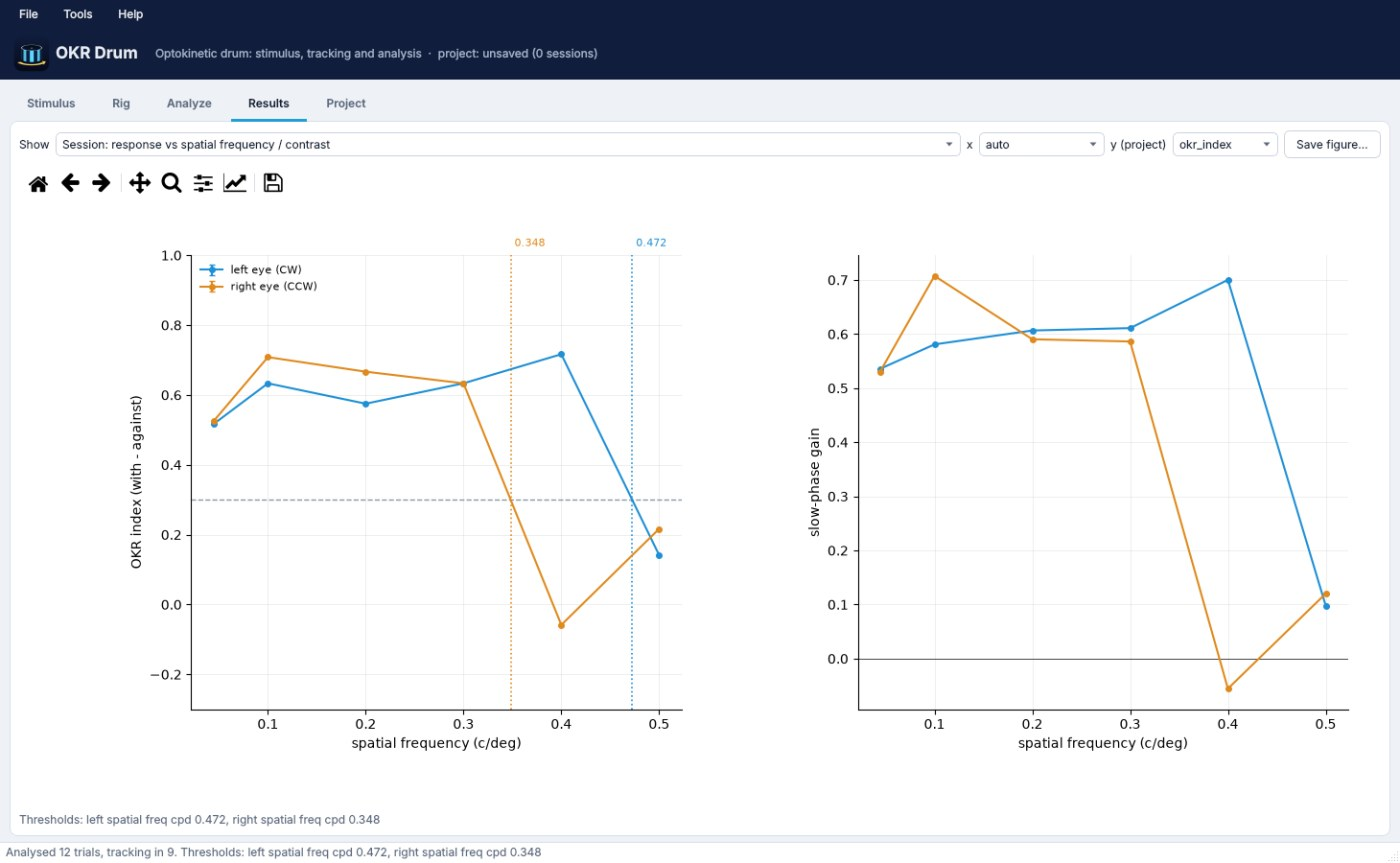
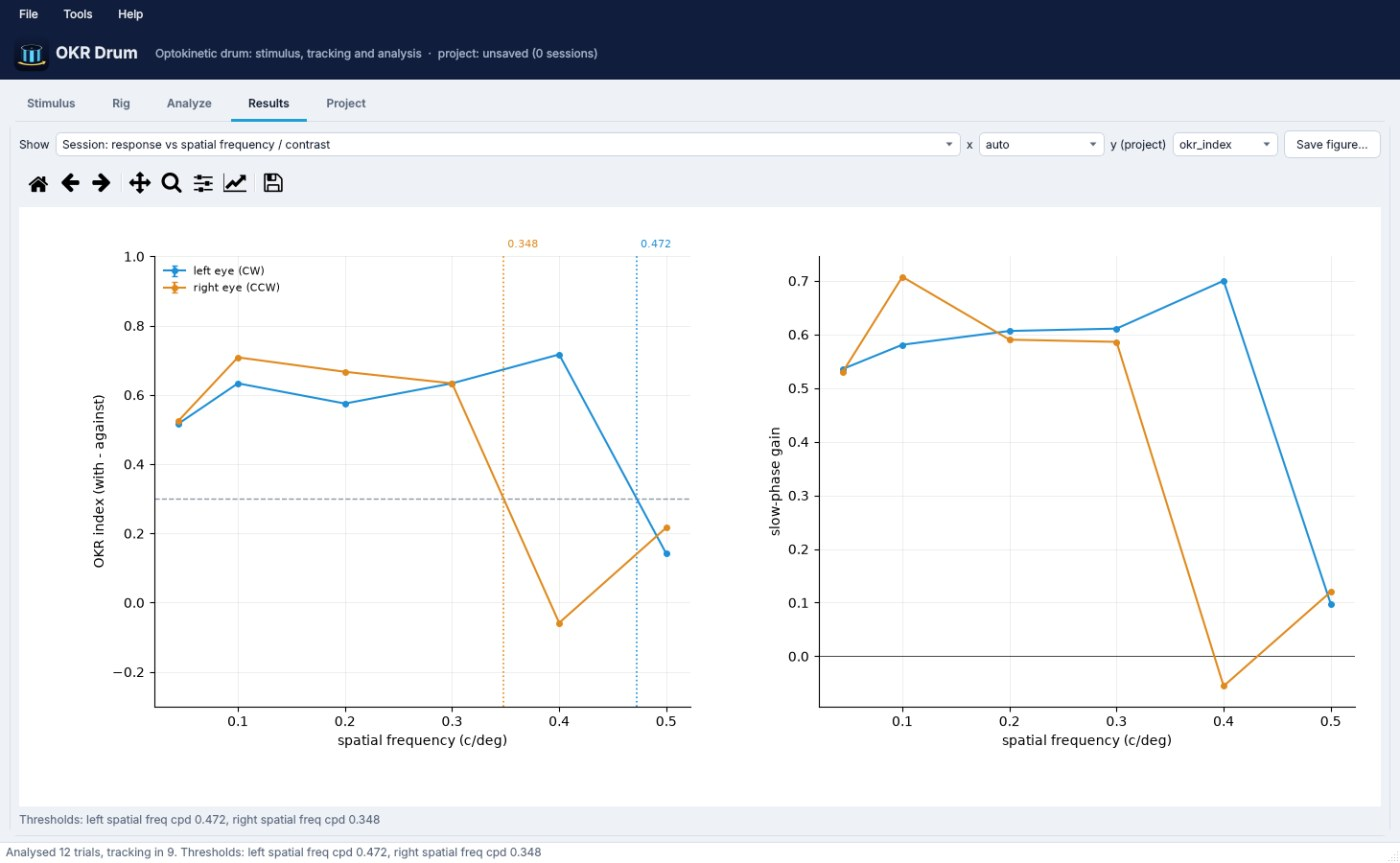
v3.0.0

diff --git a/okrdrum/gui/stimulus_tab.py b/okrdrum/gui/stimulus_tab.py
@@ -126,14 +126,16 @@ class StimulusTab(QtWidgets.QWidget):
         left.addStretch(1)
 
         g = QtWidgets.QGroupBox("Sync to the Raspberry Pi")
-        h = QtWidgets.QHBoxLayout(g)
+        h = QtWidgets.QGridLayout(g)
         self.port = QtWidgets.QComboBox()
-        h.addWidget(self.port, 1)
-        h.addWidget(theme.button("Refresh", slot=self._ports))
-        h.addWidget(theme.button("Send test marker", slot=self._test_marker,
-                                 tip="Sends 'T0 test' and 'E0' - the Pi recorder shows them live"))
+        self.port.setMinimumContentsLength(12)
+        self.port.setSizeAdjustPolicy(QtWidgets.QComboBox.AdjustToMinimumContentsLengthWithIcon)
+        h.addWidget(self.port, 0, 0, 1, 3)
+        h.addWidget(theme.button("Refresh ports", slot=self._ports), 1, 0)
+        h.addWidget(theme.button("Test marker", slot=self._test_marker,
+                                 tip="Sends 'T0 test' and 'E0' - the Pi recorder shows them live"), 1, 1)
         h.addWidget(theme.button("Send session info", slot=self._send_info,
-                                 tip="Animal, session, treatment and date to the Pi recorder (also sent at every run start)"))
+                                 tip="Animal, session, treatment and date to the Pi recorder (also sent at every run start)"), 1, 2)
         right.addWidget(g)
         self._ports()
 
@@ -141,7 +143,7 @@ class StimulusTab(QtWidgets.QWidget):
         v = QtWidgets.QVBoxLayout(g)
         h = QtWidgets.QHBoxLayout()
         self.start_btn = theme.button("Start run", "primary", self.start)
-        self.next_btn = theme.button("Start trial  (SPACE)", slot=lambda: self.runner.key("space"))
+        self.next_btn = theme.button("Trial  (SPACE)", slot=lambda: self.runner.key("space"))
         self.stop_btn = theme.button("Stop  (ESC)", "danger", lambda: self.runner.key("escape"))
         for b in (self.start_btn, self.next_btn, self.stop_btn):
             h.addWidget(b)
@@ -156,9 +158,17 @@ class StimulusTab(QtWidgets.QWidget):
         self.state_lbl.setProperty("h2", True)
         self.state_lbl.setWordWrap(True)
         v.addWidget(self.state_lbl)
+        self.display_lbl = QtWidgets.QLabel("")       # live: is the stimulus window really drawing?
+        self.display_lbl.setWordWrap(True)
+        v.addWidget(self.display_lbl)
+        self._disp_timer = QtCore.QTimer(self)
+        self._disp_timer.timeout.connect(self._update_display)
         self.table = QtWidgets.QTableWidget(0, 7)
-        self.table.setHorizontalHeaderLabels(["#", "c/deg", "contrast", "deg/s", "dir", "dropped", "answer"])
+        self.table.setHorizontalHeaderLabels(["#", "c/deg", "contr.", "deg/s", "dir", "drops", "Y/N"])
         self.table.verticalHeader().setVisible(False)
+        hh = self.table.horizontalHeader()
+        hh.setSectionResizeMode(QtWidgets.QHeaderView.Stretch)      # columns share the width: no side scrolling
+        hh.setMinimumSectionSize(36)
         self.table.setEditTriggers(QtWidgets.QAbstractItemView.NoEditTriggers)
         v.addWidget(self.table, 1)
         self.result_lbl = QtWidgets.QLabel("")
@@ -339,6 +349,20 @@ class StimulusTab(QtWidgets.QWidget):
             return
         self._set_running(True)
 
+    def _update_display(self):
+        r = getattr(self, "runner", None)
+        if r is None or not r.running:
+            return
+        fps, name = r.display_rate()
+        if fps < 1:
+            self.display_lbl.setText("<span style='color:#c0392b'><b>Stimulus window NOT drawing</b></span> - "
+                                     "covered, minimised or on a missing screen? The run goes on the clock, "
+                                     "but nothing is shown and no frames are counted.")
+        else:
+            col = "#2e8b57" if fps > 0.8 * r.refresh else "#d68910"
+            self.display_lbl.setText("<span style='color:%s'>Stimulus window drawing at %.0f Hz</span> "
+                                     "(%s)" % (col, fps, name))
+
     def _set_running(self, on):
         stair = self.mode.currentIndex() == 1
         app = QtWidgets.QApplication.instance()
@@ -347,8 +371,11 @@ class StimulusTab(QtWidgets.QWidget):
             fw = app.focusWidget()
             if fw is not None:
                 fw.clearFocus()             # so SPACE can't land in a text box
+            self._disp_timer.start(500)
         else:
             app.removeEventFilter(self._keys)
+            self._disp_timer.stop()
+            self.display_lbl.setText("")
         self.start_btn.setEnabled(not on)
         for b in (self.next_btn, self.stop_btn):
             b.setEnabled(on)

diff --git a/pi_app/okr_recorder/app.py b/pi_app/okr_recorder/app.py
@@ -56,7 +56,10 @@ class RecorderWindow(QtWidgets.QMainWindow):
         super().__init__()
         self.cfg = config or load_config()
         self.setWindowTitle("OKR Drum recorder %s" % __version__)
-        self.resize(1280, 800)
+        avail = QtWidgets.QApplication.primaryScreen().availableGeometry() \
+            if QtWidgets.QApplication.primaryScreen() else QtCore.QRect(0, 0, 1280, 800)
+        self.resize(min(1280, avail.width()), min(800, avail.height()))
+        self.setMinimumSize(640, 400)
         icon = resource("okr_drum_256.png") or resource("okr-recorder.png")
         if icon:
             self.setWindowIcon(QtGui.QIcon(icon))
@@ -94,12 +97,23 @@ class RecorderWindow(QtWidgets.QMainWindow):
         v.addLayout(body, 1)
         self.preview = QtWidgets.QLabel("starting camera…")
         self.preview.setAlignment(E(QtCore.Qt, "AlignmentFlag", "AlignCenter"))
-        self.preview.setMinimumSize(640, 480)
+        self.preview.setMinimumSize(200, 150)
         self.preview.setStyleSheet("background:#0b1224; color:#9fb3cc; border-radius:8px")
         self.preview.setSizePolicy(E(QtWidgets.QSizePolicy, "Policy", "Ignored"), E(QtWidgets.QSizePolicy, "Policy", "Ignored"))
         body.addWidget(self.preview, 3)
-        side = QtWidgets.QVBoxLayout()
-        body.addLayout(side, 1)
+        # side panel scrolls, so the window fits small Pi screens (e.g. 1024 x 600)
+        side_w = QtWidgets.QWidget()
+        side_w.setObjectName("root")
+        side = QtWidgets.QVBoxLayout(side_w)
+        side.setContentsMargins(0, 0, 6, 0)
+        scroll = QtWidgets.QScrollArea()
+        scroll.setWidget(side_w)
+        scroll.setWidgetResizable(True)
+        scroll.setFrameShape(E(QtWidgets.QFrame, "Shape", "NoFrame"))
+        scroll.setHorizontalScrollBarPolicy(E(QtCore.Qt, "ScrollBarPolicy", "ScrollBarAlwaysOff"))
+        scroll.setMinimumWidth(300)
+        scroll.setMaximumWidth(400)
+        body.addWidget(scroll, 1)
 
         g = QtWidgets.QGroupBox("Session")
         f = QtWidgets.QFormLayout(g)
@@ -116,7 +130,7 @@ class RecorderWindow(QtWidgets.QMainWindow):
         oh.addWidget(self.out, 1)
         oh.addWidget(b)
         f.addRow("Save in", oh)
-        self.auto = QtWidgets.QCheckBox("start/stop recording with the lab PC's run")
+        self.auto = QtWidgets.QCheckBox("record with the lab PC's run")
         self.auto.setChecked(bool(self.cfg.get("auto_record")))
         self.auto.toggled.connect(lambda on: (self.cfg.update(auto_record=on), save_config(self.cfg)))
         f.addRow(self.auto)
@@ -137,7 +151,7 @@ class RecorderWindow(QtWidgets.QMainWindow):
         self.stim_lbl.setMinimumHeight(48)
         gv.addWidget(self.stim_lbl)
         self.marker_list = QtWidgets.QListWidget()
-        self.marker_list.setMaximumHeight(110)
+        self.marker_list.setMaximumHeight(90)
         gv.addWidget(self.marker_list)
         side.addWidget(g)
 
@@ -163,7 +177,7 @@ class RecorderWindow(QtWidgets.QMainWindow):
 
         g = QtWidgets.QGroupBox("Upload to Google Drive (rclone)")
         f = QtWidgets.QFormLayout(g)
-        self.up_on = QtWidgets.QCheckBox("upload every recording when it stops")
+        self.up_on = QtWidgets.QCheckBox("upload when recording stops")
         self.up_on.setChecked(bool(self.cfg["upload"]))
         self.up_on.toggled.connect(self._upload_settings)
         self.remote = QtWidgets.QComboBox()
@@ -171,7 +185,7 @@ class RecorderWindow(QtWidgets.QMainWindow):
         self.remote.addItems([r + "OKR Drum/recordings" for r in list_remotes()])
         self.remote.setEditText(self.cfg["rclone_remote"])
         self.remote.lineEdit().editingFinished.connect(self._upload_settings)
-        self.up_del = QtWidgets.QCheckBox("delete from the Pi after a successful upload")
+        self.up_del = QtWidgets.QCheckBox("delete Pi copy after upload")
         self.up_del.setChecked(bool(self.cfg["upload_delete_local"]))
         self.up_del.toggled.connect(self._upload_settings)
         self.up_lbl = QtWidgets.QLabel("")

diff --git a/okrdrum/gui/main.py b/okrdrum/gui/main.py
@@ -16,7 +16,10 @@ class MainWindow(QtWidgets.QMainWindow):
         super().__init__()
         self.settings = load_settings()
         self.setWindowTitle("%s  %s" % (APP_NAME, __version__))
-        self.resize(1440, 900)
+        scr = QtWidgets.QApplication.primaryScreen()
+        avail = scr.availableGeometry() if scr else QtCore.QRect(0, 0, 1440, 900)
+        self.resize(min(1440, avail.width()), min(900, avail.height() - 30))
+        self._small_screen = avail.width() < 1440 or avail.height() < 900
         from .analyze_tab import AnalyzeTab
         from .project_tab import ProjectTab
         from .results_tab import ResultsTab
@@ -40,15 +43,25 @@ class MainWindow(QtWidgets.QMainWindow):
         self.analyze_tab = AnalyzeTab(self)
         self.results_tab = ResultsTab(self)
         self.project_tab = ProjectTab(self)
+        self._wrap = {}
         for w, name in ((self.stim_tab, "Stimulus"), (self.rig_tab, "Rig"), (self.analyze_tab, "Analyze"),
                         (self.results_tab, "Results"), (self.project_tab, "Project")):
-            self.tabs.addTab(w, name)
+            # each tab scrolls when the screen is smaller than the tab (e.g. a 1024 x 768 stimulus PC)
+            sa = QtWidgets.QScrollArea()
+            sa.setWidget(w)
+            sa.setWidgetResizable(True)
+            sa.setFrameShape(QtWidgets.QFrame.NoFrame)
+            self._wrap[w] = sa
+            self.tabs.addTab(sa, name)
         self.analyze_tab.analysed.connect(self.results_tab.set_session)
         self.project_tab.changed.connect(self._project_changed)
         self.stim_tab.run_finished.connect(lambda p: self.analyze_tab.stim.set(p))
         self._menus()
         self.statusBar().showMessage("Ready")
         self._project_changed()
+
+    def show_tab(self, w):
+        self.tabs.setCurrentWidget(self._wrap.get(w, w))
 
     def _menus(self):
         mb = self.menuBar()
@@ -66,9 +79,9 @@ class MainWindow(QtWidgets.QMainWindow):
         m.addAction("Close drum pattern", self.rig_tab.close_pattern)
         m.addSeparator()
         m.addAction("Sync check of the current session", self._sync)
-        m.addAction("Find DeepLabCut environments", lambda: (self.tabs.setCurrentWidget(self.analyze_tab),
+        m.addAction("Find DeepLabCut environments", lambda: (self.show_tab(self.analyze_tab),
                                                              self.analyze_tab._find_envs()))
-        m.addAction("Load demo session (synthetic)", lambda: (self.tabs.setCurrentWidget(self.analyze_tab),
+        m.addAction("Load demo session (synthetic)", lambda: (self.show_tab(self.analyze_tab),
                                                               self.analyze_tab.demo()))
         m = mb.addMenu("Help")
         m.addAction("About OKR Drum", self.about)
@@ -76,7 +89,7 @@ class MainWindow(QtWidgets.QMainWindow):
         m.addAction("Open settings folder", lambda: show_in_folder(SETTINGS_DIR))
 
     def _sync(self):
-        self.tabs.setCurrentWidget(self.analyze_tab)
+        self.show_tab(self.analyze_tab)
         self.analyze_tab.sync_check()
 
     def _project_changed(self):
@@ -204,7 +217,10 @@ def main(argv=None):
             __import__(mod)
         splash.step("Opening the window…", 0.95)
     w = MainWindow()
-    w.show()
+    if w._small_screen:
+        w.showMaximized()
+    else:
+        w.show()
     if splash:
         splash.close()
     return app.exec()

diff --git a/okrdrum/runner.py b/okrdrum/runner.py
@@ -84,7 +84,37 @@ class Runner(QtCore.QObject):
             place_on_screen(self.win, rig)
         self.running = True
         self._named = False
+        self._last_frame = time.perf_counter()
+        self._stall_warned = False
+        import collections
+        self._recent = collections.deque(maxlen=400)
+        # Watchdog: the run normally advances on every drawn frame. If the stimulus window stops
+        # drawing (covered by another window, minimised, on a screen that isn't there), keep the
+        # run going from the clock and say so, instead of silently freezing.
+        self._watch = QtCore.QTimer(self)
+        self._watch.setTimerType(QtCore.Qt.PreciseTimer)
+        self._watch.timeout.connect(self._watchdog)
+        self._watch.start(10)
         self._next()
+
+    def display_rate(self):
+        """(frames per second actually drawn over the last second, renderer name)."""
+        now = time.perf_counter()
+        n = sum(1 for t in self._recent if now - t <= 1.0)
+        return float(n), getattr(self.win, "renderer_name", "?")
+
+    def _watchdog(self):
+        if not self.running:
+            return
+        now = time.perf_counter()
+        if now - self._last_frame < 0.25:
+            return
+        if not self._stall_warned:
+            self._stall_warned = True
+            self.status.emit("The stimulus window is not drawing (covered, minimised or on a missing screen?) - "
+                             "the run continues on the clock, but nothing is shown and frames are not counted")
+        self._before_draw(now)
+        self._frame(now, real=False)
 
     def key(self, name):
         """space = start trial, escape = stop, y / n = staircase answer."""
@@ -111,6 +141,10 @@ class Runner(QtCore.QObject):
             self._finish_trial(time.perf_counter(), aborted=True)
         self.running = False
         self.phase = "done"
+        try:
+            self._watch.stop()
+        except Exception:
+            pass
         self.fcsv.close()
         if self.stair:
             with open(self.base + "_staircase.json", "w", encoding="utf-8") as f:
@@ -169,11 +203,17 @@ class Runner(QtCore.QObject):
         elif self.phase == "stim" and now - self.phase_t0 >= self.cur["duration_s"]:
             self._finish_trial(now)
 
-    def _frame(self, t):
+    def _frame(self, t, real=True):
+        if real:
+            self._last_frame = time.perf_counter()
+            self._recent.append(self._last_frame)
+            if self._stall_warned:
+                self._stall_warned = False
+                self.status.emit("The stimulus window is drawing again")
         if not getattr(self, "_named", False):
             self._named = True
             self.status.emit("Renderer: %s" % getattr(self.win, "renderer_name", "?"))
-        if self.phase == "stim":
+        if self.phase == "stim" and real:
             self.frame_times.append(t)
         if self.pending_onset:
             self.pending_onset = False

diff --git a/okrdrum/gui/project_tab.py b/okrdrum/gui/project_tab.py
@@ -199,7 +199,7 @@ class ProjectTab(QtWidgets.QWidget):
         self.main.analyze_tab.set_files(video=a(rec.get("video")), stim_csv=a(rec.get("stim_csv")),
                                         frames_csv=a(rec.get("frames_csv")), markers_csv=a(rec.get("markers_csv")),
                                         dlc_file=a(rec.get("dlc_file")), calibration=a(rec.get("calibration")))
-        self.main.tabs.setCurrentWidget(self.main.analyze_tab)
+        self.main.show_tab(self.main.analyze_tab)
 
     def analyse_all(self):
         recs = [self.project.session(i) for i in (self._selected() or [s["id"] for s in self.project.data["sessions"]])]

diff --git a/okrdrum/gui/widgets.py b/okrdrum/gui/widgets.py
@@ -170,6 +170,7 @@ def form_spin(lo, hi, val, dec=2, step=None, suffix=""):
     if suffix:
         w.setSuffix(" " + suffix)
     w.setKeyboardTracking(False)
+    w.setMinimumWidth(72)          # don't let the range text force wide boxes on small screens
     return w
 
 

diff --git a/README.md b/README.md
@@ -39,7 +39,7 @@ These are not in the installers because they depend on drivers, GPUs or accounts
 - **DeepLabCut** in its own conda environment, used only for analysis. Train the model wherever you like. In the Analyze tab, point the app at that environment's Python (**Find** looks in the usual Miniconda/Anaconda places) and at the project's `config.yaml`. You can also bring a DLC `.h5`/`.csv` you made elsewhere.
 - **USB-to-TTL serial adapter** (e.g. CH340/CH341, 3.3 V) from the stimulus PC to the Pi's GPIO 14/15 (TX→RX, RX→TX, GND→GND). On Windows, install the adapter's driver if it doesn't appear in the port list.
 - **Google Drive sharing** (optional):
-  - On the Pi: `rclone config` once (as your normal user) to make a remote called `gdrive`, then tick **upload every recording when it stops** in the recorder. Recordings go to `gdrive:OKR Drum/recordings/<date>/`, with a retry queue if the network drops. OneDrive also works through rclone.
+  - On the Pi: `rclone config` once (as your normal user) to make a remote called `gdrive`, then tick **upload when recording stops** in the recorder. Recordings go to `gdrive:OKR Drum/recordings/<date>/`, with a retry queue if the network drops. OneDrive also works through rclone.
   - On the PC: install **Google Drive for desktop**, set the stimulus logs folder inside the Drive folder, and point the Project tab's **Inbox** at it. New recordings are paired with their stimulus logs automatically.
 - A Raspberry Pi **HQ camera** with an IR-capable lens and IR lighting, and the four monitors set up as one extended desktop (see [hardware/](hardware/)).
 
@@ -47,7 +47,7 @@ These are not in the installers because they depend on drivers, GPUs or accounts
 
 1. **Rig tab** (once per setup): enter the monitor geometry, show the alignment pattern and line up the screens, then measure the gamma with a photometer.
 2. **Tools → Camera calibration** (once per camera position): photograph a checkerboard for the lens, click the pedestal rim for scale, and click two wall points for orientation.
-3. **Stimulus tab**: enter the animal and treatment, choose the protocol, pick the serial port and press **Start run**. The Pi fills in the same session details and, if **start/stop recording with the lab PC's run** is ticked, records the run by itself.
+3. **Stimulus tab**: enter the animal and treatment, choose the protocol, pick the serial port and press **Start run**. The Pi fills in the same session details and, if **record with the lab PC's run** is ticked, records the run by itself.
 4. **Analyze tab**: open the Pi video. The stimulus log, frame times, markers and calibration are found next to it. Run DeepLabCut, then **Analyze**. Check the **Sync check** tab, then save the CSVs, PDF report or an overlay video.
 5. **Project / Results**: collect sessions by animal, treatment and group, compare tuning curves and thresholds, and export everything.
 
